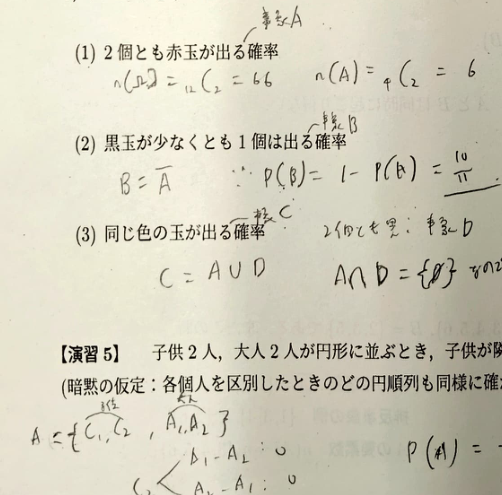
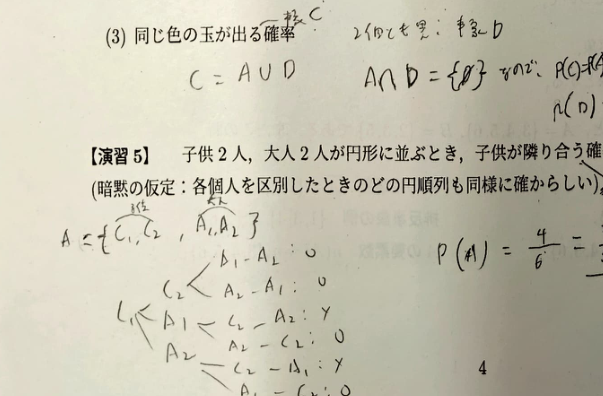
確率統計: 演習5樹形図の切り出しと文字起こし残差を直す。

diff --git a/2026/03/確率統計/pipeline/transcripts/print_freq_dist_2026-11_corrected.md b/2026/03/確率統計/pipeline/transcripts/print_freq_dist_2026-11_corrected.md
@@ -857,7 +857,7 @@ $$\hat{y} = -\frac{1}{2} x + 11$$
 }}
 {{手書き: 
 
-$$\begin{aligned} & -3\frac{1}{2} \\ -\frac{1}{2} \cdot 7 + 11 &= 7\frac{1}{2} \end{aligned}$$
+$$-\frac{1}{2}\cdot 7 + 11 = 7\frac{1}{2}$$
 
 }}
 {{手書き: 残差 $-4\frac{1}{2}$}}
@@ -1261,7 +1261,7 @@ $${}_7\text{C}_3 \cdot 0.2^3 \cdot 0.8^4 = \frac{7 \times \not{6} \times 5}{\not
 (2) 不良品が 3 個以下となる確率．
 {{手書き: 
 
-$$\begin{aligned} & {}_7\text{C}_3 \cdot 0.2^3 \times 0.8^4 + {}_7\text{C}_2 \cdot 0.2^2 \times 0.8^5 + {}_7\text{C}_1 \cdot 0.2^1 \times 0.8^6 = \text{[再読: k=0項含む4項和。最終 59·4^4/5^6]} \\ &= \frac{7 \times 4^4}{5^6} + 21 \times \frac{1}{5^2} \times \frac{4^5}{5^5} = \frac{3 \times 4^5 \times 7}{5^7} + 7 \times \frac{1}{5} \times \frac{4^6}{5^6} = \frac{7 \times 4^6}{5^7} = \frac{7 \times 4^4 \times 5 + 3 \times 4^5 \times 7 + 7 \times 4^6}{5^7} \\ &\qquad\qquad\qquad\qquad\qquad\qquad\qquad\qquad\qquad\qquad\qquad\qquad\qquad = \frac{7 \times 4^4 (5 + 3 \times 4 + 4^2)}{5^7} \\ &\qquad\qquad\qquad\qquad\qquad\qquad\qquad\qquad\qquad\qquad\qquad\qquad\qquad = \frac{7 \times 4^4 (33)}{5^7} \qquad \begin{aligned} 12 + 16 + 5 \\ 61 \end{aligned} \end{aligned}$$
+$$\begin{aligned} & {}_7\text{C}_3 \cdot 0.2^3 \times 0.8^4 + {}_7\text{C}_2 \cdot 0.2^2 \times 0.8^5 + {}_7\text{C}_1 \cdot 0.2^1 \times 0.8^6 = \text{[再読: k=0項含む4項和。最終 59·4^4/5^6]} \\ &= \frac{7 \times 4^4}{5^6} + 21 \times \frac{1}{5^2} \times \frac{4^5}{5^5} = \frac{3 \times 4^5 \times 7}{5^7} + 7 \times \frac{1}{5} \times \frac{4^6}{5^6} = \frac{7 \times 4^6}{5^7} = \frac{7 \times 4^4 \times 5 + 3 \times 4^5 \times 7 + 7 \times 4^6}{5^7} \\ &\qquad\qquad\qquad\qquad\qquad\qquad\qquad\qquad\qquad\qquad\qquad\qquad\qquad = \frac{7 \times 4^4 (5 + 3 \times 4 + 4^2)}{5^7} \\ &\qquad\qquad\qquad\qquad\qquad\qquad\qquad\qquad\qquad\qquad\qquad\qquad\qquad = \frac{4^{4}\cdot 295}{5^{7}}=\frac{59\cdot 4^{4}}{5^{6}} \qquad \begin{aligned} 12 + 16 + 5 \\ 61 \end{aligned} \end{aligned}$$
 
 }}
 

diff --git a/2026/03/確率統計/pipeline/transcripts/print_freq_dist_2026-11_p020.md b/2026/03/確率統計/pipeline/transcripts/print_freq_dist_2026-11_p020.md
@@ -54,7 +54,7 @@ $${}_7\text{C}_3 \cdot 0.2^3 \cdot 0.8^4 = \frac{7 \times \not{6} \times 5}{\not
 (2) 不良品が 3 個以下となる確率．
 {{手書き: 
 
-$$\begin{aligned} & {}_7\text{C}_3 \cdot 0.2^3 \times 0.8^4 + {}_7\text{C}_2 \cdot 0.2^2 \times 0.8^5 + {}_7\text{C}_1 \cdot 0.2^1 \times 0.8^6 = \text{[判読不能（塗りつぶし）]} \\ &= \frac{7 \times 4^4}{5^6} + 21 \times \frac{1}{5^2} \times \frac{4^5}{5^5} = \frac{3 \times 4^5 \times 7}{5^7} + 7 \times \frac{1}{5} \times \frac{4^6}{5^6} = \frac{7 \times 4^6}{5^7} = \frac{7 \times 4^4 \times 5 + 3 \times 4^5 \times 7 + 7 \times 4^6}{5^7} \\ &\qquad\qquad\qquad\qquad\qquad\qquad\qquad\qquad\qquad\qquad\qquad\qquad\qquad = \frac{7 \times 4^4 (5 + 3 \times 4 + 4^2)}{5^7} \\ &\qquad\qquad\qquad\qquad\qquad\qquad\qquad\qquad\qquad\qquad\qquad\qquad\qquad = \frac{7 \times 4^4 (33)}{5^7} \qquad \begin{aligned} 12 + 16 + 5 \\ 61 \end{aligned} \end{aligned}$$
+$$\begin{aligned} & {}_7\text{C}_3 \cdot 0.2^3 \times 0.8^4 + {}_7\text{C}_2 \cdot 0.2^2 \times 0.8^5 + {}_7\text{C}_1 \cdot 0.2^1 \times 0.8^6 = \text{[再読: k=0〜3の4項。最終 } 59\cdot 4^{4}/5^{6}\text{]} \\ &= \frac{7 \times 4^4}{5^6} + 21 \times \frac{1}{5^2} \times \frac{4^5}{5^5} = \frac{3 \times 4^5 \times 7}{5^7} + 7 \times \frac{1}{5} \times \frac{4^6}{5^6} = \frac{7 \times 4^6}{5^7} = \frac{7 \times 4^4 \times 5 + 3 \times 4^5 \times 7 + 7 \times 4^6}{5^7} \\ &\qquad\qquad\qquad\qquad\qquad\qquad\qquad\qquad\qquad\qquad\qquad\qquad\qquad = \frac{7 \times 4^4 (5 + 3 \times 4 + 4^2)}{5^7} \\ &\qquad\qquad\qquad\qquad\qquad\qquad\qquad\qquad\qquad\qquad\qquad\qquad\qquad = \frac{4^{4}\cdot 295}{5^{7}}=\frac{59\cdot 4^{4}}{5^{6}} \qquad \begin{aligned} 12 + 16 + 5 \\ 61 \end{aligned} \end{aligned}$$
 
 }}
 

diff --git a/2026/03/確率統計/pipeline/transcripts/print_freq_dist_2026-11_p014.md b/2026/03/確率統計/pipeline/transcripts/print_freq_dist_2026-11_p014.md
@@ -59,7 +59,7 @@ $$\hat{y} = -\frac{1}{2} x + 11$$
 }}
 {{手書き: 
 
-$$\begin{aligned} & -3\frac{1}{2} \\ -\frac{1}{2} \cdot 7 + 11 &= 7\frac{1}{2} \end{aligned}$$
+$$-\frac{1}{2}\cdot 7 + 11 = 7\frac{1}{2}$$
 
 }}
 {{手書き: 残差 $-4\frac{1}{2}$}}
